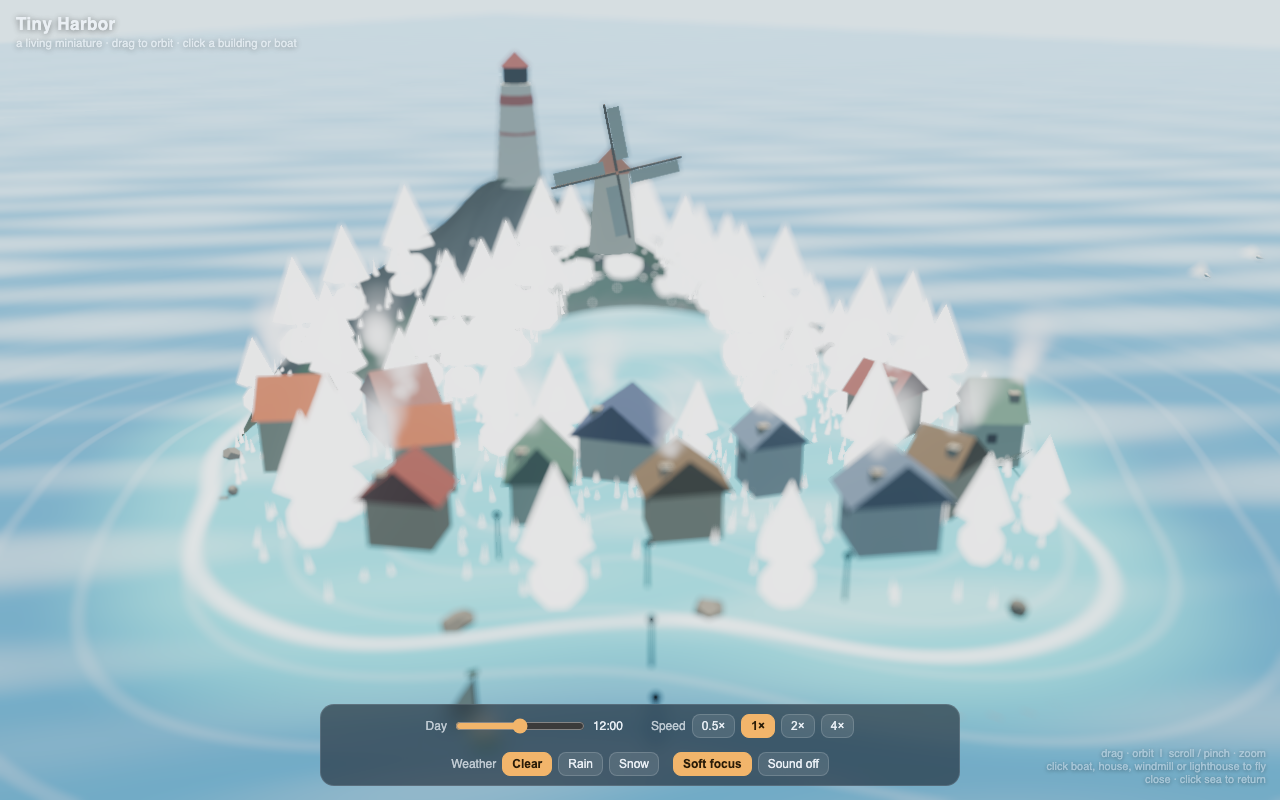
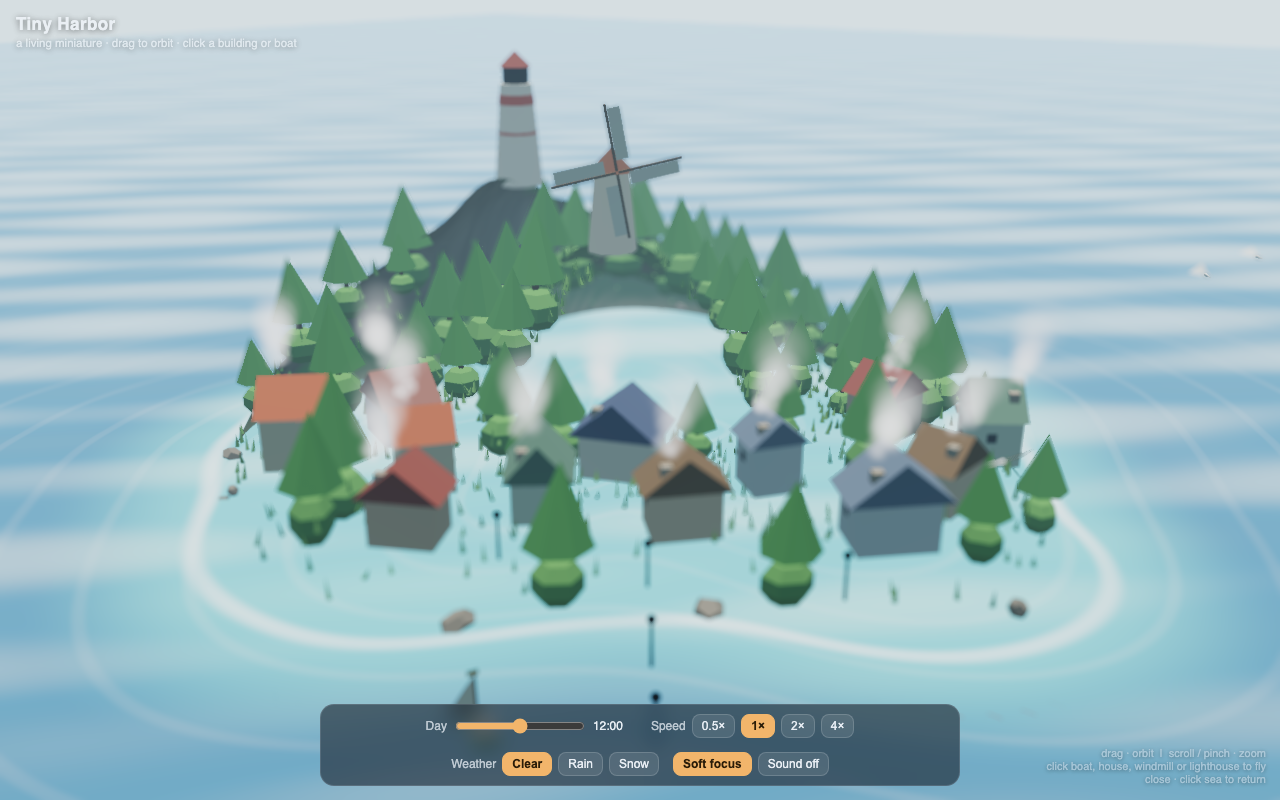
Fix unlit-white vegetation, retina upscale blur, and global bloom wash
- addSway() never returned the material: every tree/grass InstancedMesh
  silently fell back to white MeshBasicMaterial (the 'bright white trees'),
  and the wind-sway shader never ran. Now returns mat; sway is live.
- composer.setPixelRatio(renderer.getPixelRatio()): EffectComposer cached
  dpr=1 at construction, so the whole post chain upscaled 2x on retina
  ('still blurry' after DoF retune). Verified 60fps @ dpr2 on M5 Ultra Metal.
- Bloom threshold 0.82 -> 1.15 (pre-tonemap HDR sunlit faces reached 1.5-3.0,
  so every lit surface glowed: milky veil + halos). Daytime strength lowered;
  night windows/lamps (emissiveIntensity 1.9) still bloom - verified by pixels.
- Sun peak 2.9 -> 2.35; grass/shallow water deepened a step; shore foam softened.
- DoF maxblur 0.009 -> 0.007. Determinism re-verified byte-identical at same tick.

diff --git a/src/main.js b/src/main.js
@@ -50,6 +50,8 @@ function applySize() {
   } else {
     renderer.setPixelRatio(Math.min(devicePixelRatio || 1, 2));
     renderer.setSize(innerWidth, innerHeight);
+    // composer caches pixel ratio at construction — must follow the renderer or we upscale on retina
+    composer.setPixelRatio(renderer.getPixelRatio());
     camera.aspect = innerWidth / innerHeight;
     camera.updateProjectionMatrix();
     composer.setSize(innerWidth, innerHeight);
@@ -94,7 +96,9 @@ const composer = new EffectComposer(renderer, rt);
 composer.addPass(new RenderPass(scene, camera));
 const bokeh = new BokehPass(scene, camera, { focus: 50, aperture: 0.0022, maxblur: 0.011 });
 composer.addPass(bokeh);
-const bloom = new UnrealBloomPass(new THREE.Vector2(4, 4), 0.25, 0.7, 0.82);
+// bloom runs on pre-tonemap HDR values: sunlit surfaces reach 1.5-3.0, so the threshold must
+// sit above 1 or every lit face blooms (that washed-out white-tree look). Only emissive/highlights glow.
+const bloom = new UnrealBloomPass(new THREE.Vector2(4, 4), 0.25, 0.45, 1.15);
 composer.addPass(bloom);
 composer.addPass(new OutputPass());
 
@@ -194,7 +198,7 @@ if (params.has('weather')) setWeather(params.get('weather'));
 const clockEl = ui.clock;
 let last = performance.now(), filmTick = 0;
 let fpsFrames = 0, fpsT0 = performance.now();
-const api = window.__tiny = { ready: false, filmDone: false, fps: 0, state, modules: { boats },
+const api = window.__tiny = { ready: false, filmDone: false, fps: 0, state, modules: { boats }, fx: { bloom, bokeh, scene },
   get filmT() { return filmTick; },
   setDay(t) { state.time = t; state.paused = true; },
   snapWeather(w) {
@@ -284,9 +288,9 @@ function frame(now) {
     // sharp band half-width = maxblur/aperture; keep it ≥ island scale so the diorama reads crisp
     const soft = state.softFocus !== false;
     bokehU.aperture.value = state.aperture ?? (soft ? (state.record ? 0.0009 : 0.0005) : 0.0);
-    bokehU.maxblur.value = state.maxblur ?? (soft ? 0.009 : 0.0);
+    bokehU.maxblur.value = state.maxblur ?? (soft ? 0.007 : 0.0);
   }
-  bloom.strength = 0.10 + sky.nightF * 0.55 + sky.golden * 0.18 + state.snowAmt * 0.08;
+  bloom.strength = 0.03 + sky.nightF * 0.5 + sky.golden * 0.12 + state.snowAmt * 0.06;
 
   composer.render();
 

diff --git a/src/water.js b/src/water.js
@@ -16,7 +16,7 @@ export function buildWater(scene) {
     uRain: { value: 0 },
     uSnow: { value: 0 },
     uDeep: { value: new THREE.Color('#1f6f92') },
-    uShallow: { value: new THREE.Color('#63c8c4') },
+    uShallow: { value: new THREE.Color('#4db8b0') },
     uSkyTint: { value: new THREE.Color('#bfe6f5') },
     uHorizon: { value: new THREE.Color('#d3ecf7') },
     fogColor: { value: new THREE.Color('#cccccc') },
@@ -94,9 +94,10 @@ export function buildWater(scene) {
         float rr = length(vWorld.xz); // (r already, keep readable)
         float band = abs(d - wob*0.4 - vWave*1.2);
         float foam = smoothstep(0.9, 0.05, band) * smoothstep(R+3.0, R-2.0, rr);
+
         // crest sparkle lines on waves outside the bay
         float crests = smoothstep(0.86, 1.0, sin(d*1.2 - t*1.6 + th*5.0)) * 0.12 * (1.0-depth*0.4);
-        col = mix(col, vec3(0.97,0.99,1.0), clamp(foam + crests, 0.0, 1.0) * (0.25 + uDayF*0.75));
+        col = mix(col, vec3(0.97,0.99,1.0), clamp(foam + crests, 0.0, 1.0) * (0.2 + uDayF*0.45));
 
         // rain: dull the water, add ripple speckle
         if(uRain > 0.01){

diff --git a/src/island.js b/src/island.js
@@ -4,8 +4,8 @@ import { islandRadius, islandHeight, CLIFF_TH, PIER_TH, smoothstep, lerp, mulber
 
 const SAND = new THREE.Color('#e8d9ab');
 const SAND_WET = new THREE.Color('#c9b98a');
-const GRASS_A = new THREE.Color('#7fb564');
-const GRASS_B = new THREE.Color('#93c273');
+const GRASS_A = new THREE.Color('#6fa855');
+const GRASS_B = new THREE.Color('#84b761');
 const ROCK = new THREE.Color('#9d9488');
 const ROCK_DK = new THREE.Color('#7f7669');
 

diff --git a/src/world.js b/src/world.js
@@ -102,7 +102,7 @@ export function computeSky(t) {
 
   return {
     elev, dayF, nightF, golden, sunDir, moonDir, zenith, horizon, fogColor, sunColor,
-    sunI: dayF * 2.9,
+    sunI: dayF * 2.35,
     moonI: nightF * 0.6,
     hemiSky: horizon.clone().lerp(zenith, 0.5).multiplyScalar(0.9 + dayF * 0.4),
     hemiGround: new THREE.Color('#141a2c').lerp(new THREE.Color('#7d8a5e'), dayF),

diff --git a/src/nature.js b/src/nature.js
@@ -20,6 +20,7 @@ function addSway(mat, amp) {
       #endif`);
   };
   mat.customProgramCacheKey = () => 'sway' + amp;
+  return mat;
 }
 
 function softDotTexture() {
